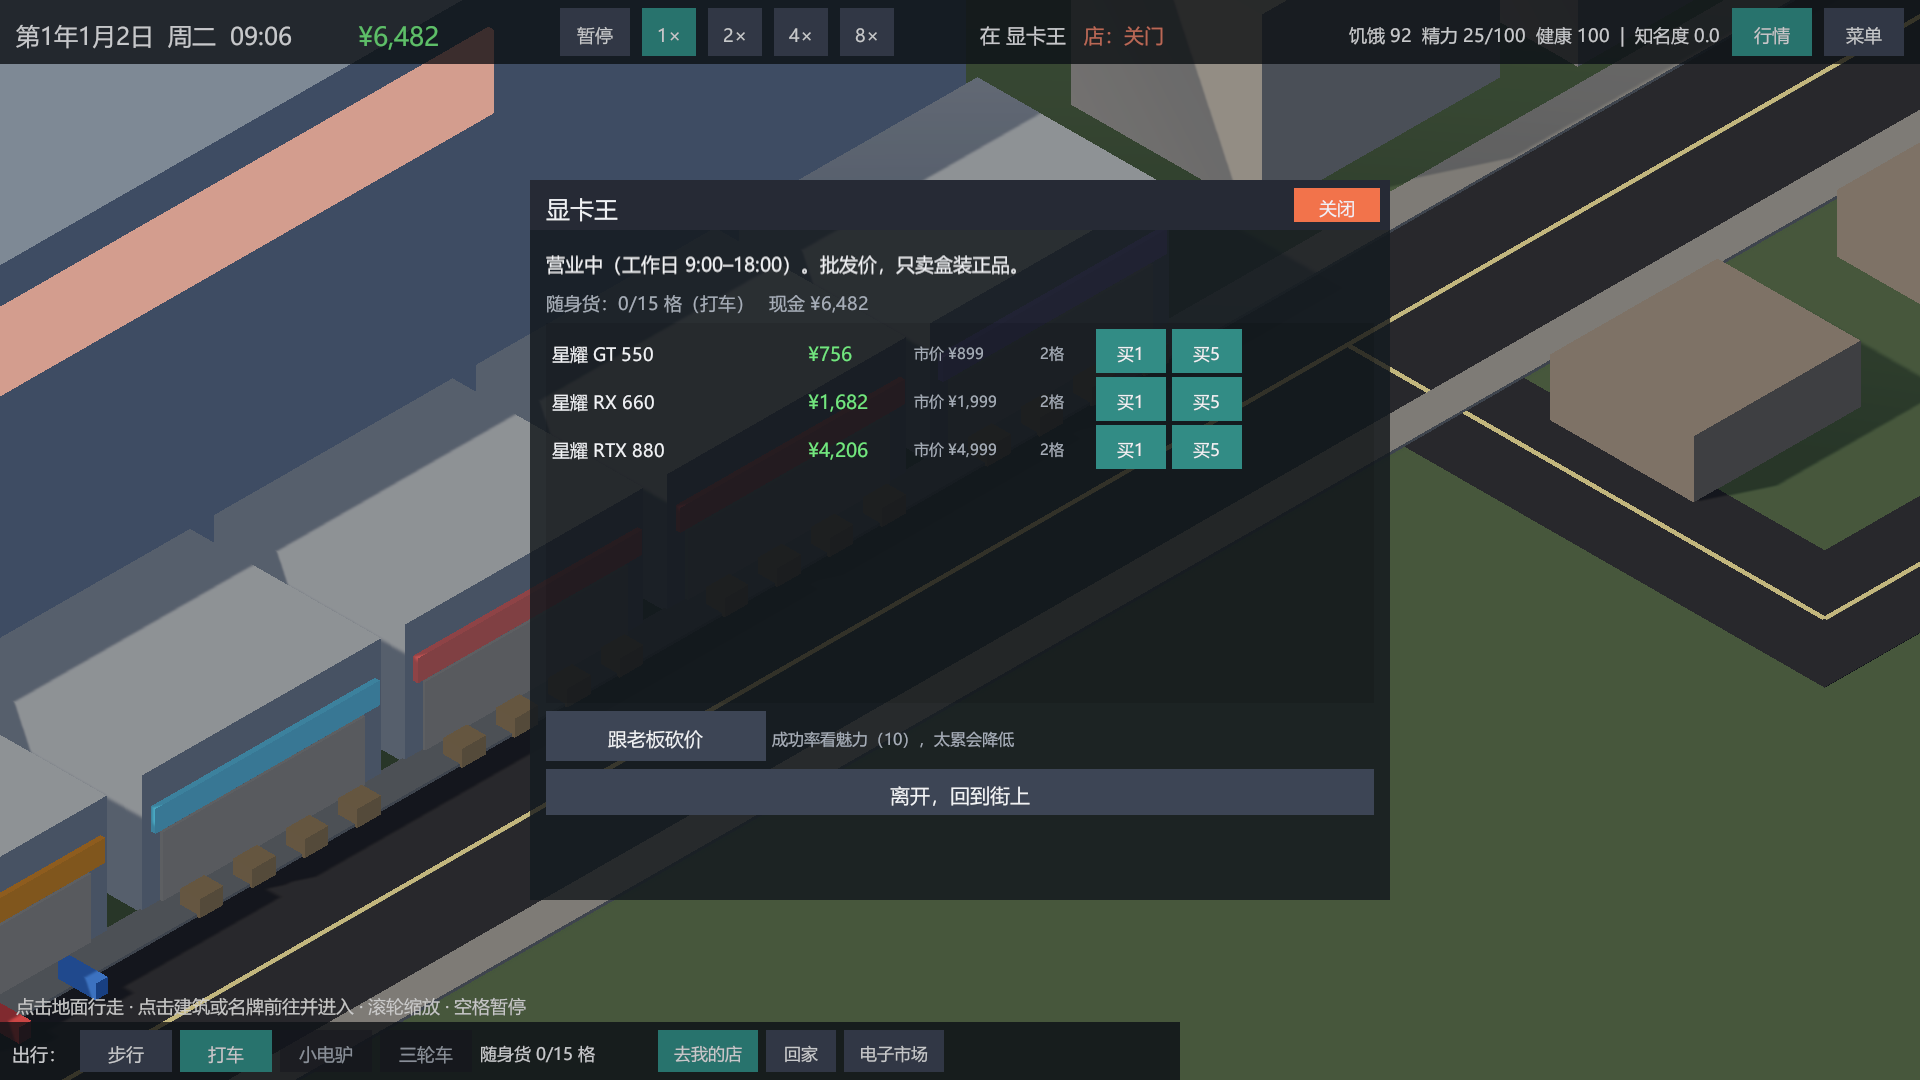
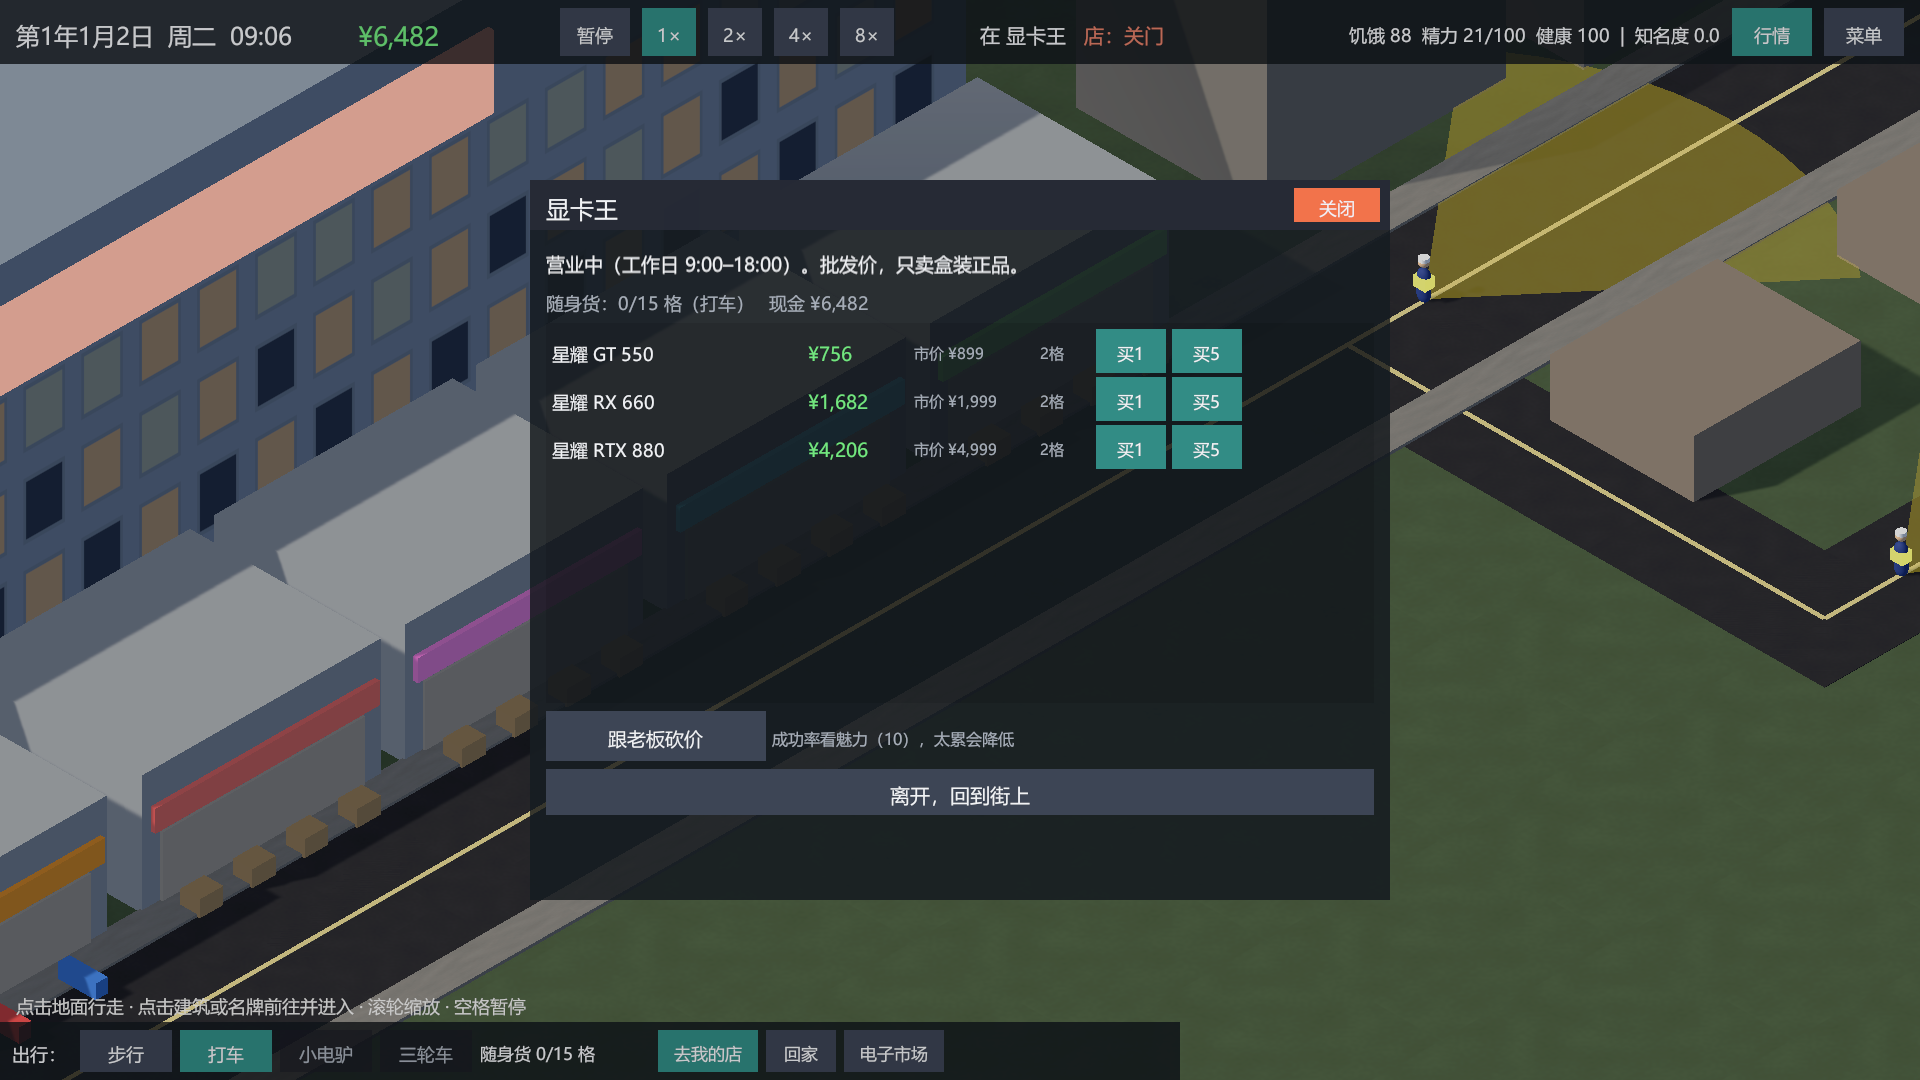
world: windows, roof clutter, textured ground, neon shop lights; PlayModeSmoke real play-mode test; docs

diff --git a/Assets/Scripts/Game/Runtime/StreetWorldBuilder.cs b/Assets/Scripts/Game/Runtime/StreetWorldBuilder.cs
@@ -53,6 +53,7 @@ namespace PCShopSell.Game.Runtime
         private readonly CityLayout _city;
         private readonly System.Random _rng;
         private Transform _root;
+        private int _shopNeonCount;
 
         public Dictionary<string, PlaceVisual> Places { get; } = new Dictionary<string, PlaceVisual>();
         public List<Light> NightLights { get; } = new List<Light>();
@@ -73,7 +74,7 @@ namespace PCShopSell.Game.Runtime
             Mats.ClearNightGlow();
             _root = new GameObject("City").transform;
 
-            var ground = Prims.Box(_root, "Ground", new Vector3(-60, -0.06f, -20), new Vector3(520, 0.1f, 220), Mats.Lit(Grass, 0.05f), true);
+            var ground = Prims.Box(_root, "Ground", new Vector3(-60, -0.06f, -20), new Vector3(520, 0.1f, 220), Mats.LitTex(Grass, new Vector2(70, 30), 0.05f), true);
             ground.AddComponent<GroundMarker>();
 
             BuildRoads();
@@ -102,7 +103,7 @@ namespace PCShopSell.Game.Runtime
                     float width = main ? 7f : 5f;
                     Vector3 d = b - a;
                     float len = d.magnitude + width;
-                    var go = Prims.Box(roads, "Road_" + key, (a + b) * 0.5f + Vector3.up * 0.005f, new Vector3(width, 0.02f, len), Mats.Lit(Asphalt, 0.45f));
+                    var go = Prims.Box(roads, "Road_" + key, (a + b) * 0.5f + Vector3.up * 0.005f, new Vector3(width, 0.02f, len), Mats.LitTex(Asphalt, new Vector2(Mathf.Max(1f, width / 5f), Mathf.Max(1f, len / 5f)), 0.5f));
                     go.transform.localRotation = Quaternion.LookRotation(d.normalized, Vector3.up);
 
                     if (len > 14f)
@@ -116,7 +117,7 @@ namespace PCShopSell.Game.Runtime
 
         private void BuildSidewalks()
         {
-            var sw = Mats.Lit(Sidewalk, 0.15f);
+            var sw = Mats.LitTex(Sidewalk, new Vector2(60, 1), 0.2f);
             Prims.Box(_root, "SidewalkNorth", new Vector3(-85, 0.06f, 3.9f), new Vector3(380, 0.12f, 1.4f), sw);
             Prims.Box(_root, "SidewalkSouth", new Vector3(-85, 0.06f, -4.2f), new Vector3(380, 0.12f, 1.4f), sw);
         }
@@ -176,14 +177,22 @@ namespace PCShopSell.Game.Runtime
             Prims.Box(root, "Sign", new Vector3(entrance.x, 3.2f, FrontZ - 0.15f), new Vector3(w - 0.4f, 0.8f, 0.2f),
                 Mats.Glow(sign * 0.8f, sign * 2.2f));
             Prims.Box(root, "Awning", new Vector3(entrance.x, 2.75f, FrontZ - 0.6f), new Vector3(w - 0.2f, 0.08f, 1.2f), Mats.Lit(sign * 0.6f));
-
-            for (int f = 1; f < floors; f++)
+            if (_shopNeonCount++ % 2 == 0)
             {
-                float y = f * 3.2f + 1.6f;
-                bool lit = _rng.NextDouble() < 0.6;
-                Prims.Box(root, "Windows" + f, new Vector3(entrance.x, y, FrontZ - 0.03f), new Vector3(w - 1.2f, 1.2f, 0.06f),
-                    lit ? Mats.Glow(new Color(0.3f, 0.36f, 0.45f), new Color(1.4f, 1.15f, 0.7f)) : Mats.Lit(new Color(0.25f, 0.32f, 0.42f), 0.8f));
+                var ngo = new GameObject("NeonLight");
+                ngo.transform.SetParent(root, false);
+                ngo.transform.localPosition = new Vector3(entrance.x, 2.6f, FrontZ - 2.2f);
+                var nl = ngo.AddComponent<Light>();
+                nl.type = LightType.Point;
+                nl.range = 9f;
+                nl.color = Color.Lerp(sign, Color.white, 0.15f);
+                nl.intensity = 0;
+                nl.shadows = LightShadows.None;
+                NightLights.Add(nl);
             }
+
+            if (floors > 1)
+                WindowFace(root, new Vector3(entrance.x, 3.2f + (h - 3.2f) / 2f, FrontZ - 0.03f), w - 0.4f, h - 3.2f, facade, false);
             Prims.Box(root, "Roof", new Vector3(entrance.x, h + 0.15f, cz), new Vector3(w + 0.2f, 0.3f, d + 0.2f), Mats.Lit(facade * 0.7f));
 
             if (p.IsPlayerShop)
@@ -210,7 +219,7 @@ namespace PCShopSell.Game.Runtime
             var body = Prims.Box(root, "Body", new Vector3(x, 3.2f, e.z), new Vector3(8, 6.4f, 8), Mats.Lit(new Color(0.70f, 0.62f, 0.52f), 0.05f), true);
             body.AddComponent<PlaceMarker>().PlaceId = p.Id;
             Prims.Box(root, "Door", new Vector3(x - 4.05f, 1.1f, e.z), new Vector3(0.1f, 2.2f, 1.2f), Mats.Lit(new Color(0.35f, 0.2f, 0.12f)));
-            Prims.Box(root, "Window", new Vector3(x - 4.04f, 4.4f, e.z + 1.5f), new Vector3(0.08f, 1.0f, 1.4f), Mats.Glow(new Color(0.3f, 0.3f, 0.35f), new Color(1.8f, 1.3f, 0.6f)));
+            WindowFace(root, new Vector3(x - 4.03f, 4.8f, e.z), 8f, 3.2f, new Color(0.70f, 0.62f, 0.52f), true);
             Prims.Box(root, "Laundry", new Vector3(x - 4.4f, 3.6f, e.z - 1.5f), new Vector3(0.05f, 0.05f, 3f), Mats.Lit(Color.gray));
             for (int i = 0; i < 3; i++)
                 Prims.Box(root, "Cloth" + i, new Vector3(x - 4.4f, 3.2f, e.z - 2.6f + i), new Vector3(0.04f, 0.7f, 0.6f), Mats.Lit(SignColors[i]));
@@ -250,14 +259,18 @@ namespace PCShopSell.Game.Runtime
 
             // 电子市场背后的大楼（作背景）
             var mall = Prims.Box(t, "MarketHall", new Vector3(-236, 8, 26), new Vector3(70, 16, 22), Mats.Lit(new Color(0.55f, 0.6f, 0.66f), 0.3f));
-            _ = mall;
+            WindowFace(t, new Vector3(-236, 6.5f, 14.97f), 68f, 10f, new Color(0.55f, 0.6f, 0.66f), false);
             Prims.Box(t, "MarketHallSign", new Vector3(-236, 13, 14.9f), new Vector3(30, 3, 0.3f), Mats.Glow(new Color(0.8f, 0.2f, 0.2f), new Color(3f, 0.5f, 0.4f), false));
 
             // 商业街背后的楼
             for (float x = -98; x < 100; x += 14f)
             {
                 float h = 14 + (float)_rng.NextDouble() * 12;
-                Prims.Box(t, "Back", new Vector3(x, h / 2, 30 + (float)_rng.NextDouble() * 4), new Vector3(13, h, 8), Mats.Lit(Facades[_rng.Next(Facades.Length)] * 0.8f));
+                float zc = 30 + (float)_rng.NextDouble() * 4;
+                Color wall = Facades[_rng.Next(Facades.Length)] * 0.8f;
+                Prims.Box(t, "Back", new Vector3(x, h / 2, zc), new Vector3(13, h, 8), Mats.Lit(wall));
+                WindowFace(t, new Vector3(x, h / 2, zc - 4.03f), 12.6f, h - 0.5f, wall, false);
+                RoofClutter(t, new Vector3(x, h, zc), 13, 8);
             }
 
             // 连接路两侧：北侧仓库（可以高），中间和南侧矮房
@@ -277,18 +290,62 @@ namespace PCShopSell.Game.Runtime
                 {
                     float x = 111 + k * 7;
                     float h = 3 + (float)_rng.NextDouble() * 3.5f;
-                    Prims.Box(t, "Village", new Vector3(x, h / 2, z - 0.5f), new Vector3(5.5f, h, 7.5f), Mats.Lit(VillageColor()));
+                    VillageHouse(t, new Vector3(x, h / 2, z - 0.5f), h);
                 }
                 for (int k = 0; k < 3; k++)
                 {
                     float x = 131 + k * 7;
                     if (row == 4) continue;
                     float h = 3 + (float)_rng.NextDouble() * 4;
-                    Prims.Box(t, "Village", new Vector3(x, h / 2, z - 0.5f), new Vector3(5.5f, h, 7.5f), Mats.Lit(VillageColor()));
+                    VillageHouse(t, new Vector3(x, h / 2, z - 0.5f), h);
                 }
             }
             for (int k = 0; k < 5; k++)
                 Prims.Box(t, "VillageSouth", new Vector3(108 + k * 9, 1.5f, -72), new Vector3(7, 3, 6), Mats.Lit(VillageColor()));
+        }
+
+        /// <summary>在一面朝 -Z（或 -X）的墙上铺一层窗户贴图（镜头只看得到这两个方向）。</summary>
+        private void WindowFace(Transform parent, Vector3 center, float width, float height, Color wall, bool faceMinusX)
+        {
+            int cols = Mathf.Max(1, Mathf.RoundToInt(width / 2.4f));
+            int rows = Mathf.Max(1, Mathf.RoundToInt(height / 3.2f));
+            var q = GameObject.CreatePrimitive(PrimitiveType.Quad);
+            q.name = "Windows";
+            Object.DestroyImmediate(q.GetComponent<Collider>());
+            q.transform.SetParent(parent, false);
+            q.transform.localPosition = center;
+            q.transform.localRotation = faceMinusX ? Quaternion.Euler(0, 90, 0) : Quaternion.identity;
+            q.transform.localScale = new Vector3(width, height, 1f);
+            q.GetComponent<Renderer>().sharedMaterial = Mats.WindowWall(wall, cols, rows, _rng.Next(16));
+        }
+
+        private void VillageHouse(Transform parent, Vector3 center, float h)
+        {
+            Color wall = VillageColor();
+            Prims.Box(parent, "Village", center, new Vector3(5.5f, h, 7.5f), Mats.Lit(wall));
+            WindowFace(parent, new Vector3(center.x, center.y, center.z - 3.78f), 5.2f, h - 0.4f, wall, false);
+            WindowFace(parent, new Vector3(center.x - 2.78f, center.y, center.z), 7.0f, h - 0.4f, wall, true);
+            RoofClutter(parent, new Vector3(center.x, h, center.z), 5.5f, 7.5f);
+        }
+
+        /// <summary>屋顶上的空调外机、水箱，让天际线不再是一块平板。</summary>
+        private void RoofClutter(Transform parent, Vector3 roofCenter, float w, float d)
+        {
+            Material metal = Mats.Lit(new Color(0.62f, 0.64f, 0.66f), 0.4f, 0.4f);
+            int n = 1 + _rng.Next(3);
+            for (int i = 0; i < n; i++)
+            {
+                float x = roofCenter.x + ((float)_rng.NextDouble() - 0.5f) * (w - 2f);
+                float z = roofCenter.z + ((float)_rng.NextDouble() - 0.5f) * (d - 2f);
+                if (_rng.NextDouble() < 0.35)
+                {
+                    Prims.Shape(PrimitiveType.Cylinder, parent, "Tank", new Vector3(x, roofCenter.y + 0.9f, z), new Vector3(1.1f, 0.9f, 1.1f), Mats.Lit(new Color(0.55f, 0.5f, 0.45f)));
+                }
+                else
+                {
+                    Prims.Box(parent, "AC", new Vector3(x, roofCenter.y + 0.4f, z), new Vector3(1.2f, 0.8f, 0.9f), metal);
+                }
+            }
         }
 
         private Color VillageColor()

diff --git a/Assets/Scripts/Game/Runtime/Mats.cs b/Assets/Scripts/Game/Runtime/Mats.cs
@@ -72,6 +72,107 @@ namespace PCShopSell.Game.Runtime
         }
 
         public static void ClearNightGlow() => NightGlow.Clear();
+
+        // ---------- 贴图材质（地面质感、带窗户的墙面） ----------
+
+        private static Texture2D _noise;
+        private static Texture2D _windowAlbedo;
+        private static Texture2D _windowEmission;
+
+        /// <summary>灰度噪点贴图（0.78~1），乘在底色上让大面积的地面不再是一整块平色。</summary>
+        public static Texture2D NoiseTex
+        {
+            get
+            {
+                if (_noise != null) return _noise;
+                const int n = 128;
+                var t = new Texture2D(n, n, TextureFormat.RGBA32, true, true) { name = "Noise", wrapMode = TextureWrapMode.Repeat };
+                var px = new Color32[n * n];
+                for (int y = 0; y < n; y++)
+                    for (int x = 0; x < n; x++)
+                    {
+                        float low = Mathf.PerlinNoise(x * 0.05f + 11f, y * 0.05f + 3f);
+                        float fine = Mathf.PerlinNoise(x * 0.35f, y * 0.35f);
+                        float v = Mathf.Clamp01(0.78f + 0.14f * low + 0.08f * fine);
+                        byte b = (byte)(v * 255f);
+                        px[y * n + x] = new Color32(b, b, b, 255);
+                    }
+                t.SetPixels32(px);
+                t.Apply(true);
+                return _noise = t;
+            }
+        }
+
+        /// <summary>带噪点贴图的地面材质。</summary>
+        public static Material LitTex(Color c, Vector2 tiling, float smoothness = 0.2f)
+        {
+            string key = $"T{c}{tiling}{smoothness}";
+            if (Cache.TryGetValue(key, out Material m) && m != null) return m;
+            m = new Material(LitShader) { name = key };
+            m.SetColor("_BaseColor", c);
+            m.color = c;
+            m.SetFloat("_Smoothness", smoothness);
+            m.SetTexture("_BaseMap", NoiseTex);
+            m.mainTexture = NoiseTex;
+            m.mainTextureScale = tiling;
+            Cache[key] = m;
+            return m;
+        }
+
+        private static void BuildWindowTextures()
+        {
+            if (_windowAlbedo != null) return;
+            const int cell = 64, cells = 4, n = cell * cells;
+            var rng = new System.Random(4242);
+            _windowAlbedo = new Texture2D(n, n, TextureFormat.RGBA32, true, true) { name = "WindowAlbedo", wrapMode = TextureWrapMode.Repeat };
+            _windowEmission = new Texture2D(n, n, TextureFormat.RGBA32, true, true) { name = "WindowEmission", wrapMode = TextureWrapMode.Repeat };
+            var a = new Color32[n * n];
+            var e = new Color32[n * n];
+            for (int cy = 0; cy < cells; cy++)
+                for (int cx = 0; cx < cells; cx++)
+                {
+                    bool lit = rng.NextDouble() < 0.55;
+                    var warm = rng.NextDouble() < 0.8 ? new Color32(255, 214, 140, 255) : new Color32(150, 215, 255, 255);
+                    for (int y = 0; y < cell; y++)
+                        for (int x = 0; x < cell; x++)
+                        {
+                            int px = cx * cell + x, py = cy * cell + y;
+                            bool pane = x >= 12 && x < cell - 12 && y >= 14 && y < cell - 10;
+                            bool frame = !pane && x >= 9 && x < cell - 9 && y >= 11 && y < cell - 7;
+                            Color32 albedo = pane ? new Color32(36, 46, 62, 255) : frame ? new Color32(215, 215, 215, 255) : new Color32(255, 255, 255, 255);
+                            a[py * n + px] = albedo;
+                            e[py * n + px] = pane && lit ? warm : new Color32(0, 0, 0, 255);
+                        }
+                }
+            _windowAlbedo.SetPixels32(a);
+            _windowAlbedo.Apply(true);
+            _windowEmission.SetPixels32(e);
+            _windowEmission.Apply(true);
+        }
+
+        /// <summary>
+        /// 带窗户的墙面材质：每栋楼单独一个材质，用贴图偏移让亮灯的窗户各不相同。
+        /// columns/rows 是这面墙上窗户的列数/行数；夜里窗户按 NightGlow 亮起。
+        /// </summary>
+        public static Material WindowWall(Color wall, int columns, int rows, int seed)
+        {
+            BuildWindowTextures();
+            var m = new Material(LitShader) { name = "WindowWall" };
+            m.SetColor("_BaseColor", wall);
+            m.color = wall;
+            m.SetFloat("_Smoothness", 0.35f);
+            m.SetTexture("_BaseMap", _windowAlbedo);
+            m.mainTexture = _windowAlbedo;
+            m.mainTextureScale = new Vector2(Mathf.Max(1, columns) / 4f, Mathf.Max(1, rows) / 4f);
+            m.mainTextureOffset = new Vector2((seed % 4) / 4f, ((seed / 4) % 4) / 4f);
+            m.EnableKeyword("_EMISSION");
+            m.globalIlluminationFlags = MaterialGlobalIlluminationFlags.None;
+            m.SetTexture("_EmissionMap", _windowEmission);
+            Color baseEmission = new Color(2.2f, 1.9f, 1.4f);
+            m.SetColor("_EmissionColor", baseEmission * 0.08f);
+            NightGlow.Add((m, baseEmission));
+            return m;
+        }
     }
 
     public static class Prims

diff --git a/Assets/Editor/PlayModeSmoke.cs b/Assets/Editor/PlayModeSmoke.cs
@@ -1,0 +1,110 @@
+using System;
+using System.IO;
+using PCShopSell.Game;
+using UnityEditor;
+using UnityEditor.SceneManagement;
+using UnityEngine;
+
+namespace PCShopSell.EditorTools
+{
+    /// <summary>
+    /// 真正进 Play 模式跑 Main.unity：走你验收时会走的路径（Start → Bootstrap → Update 循环 → 进店 → 加速）。
+    /// 命令：Unity -batchmode -executeMethod PCShopSell.EditorTools.PlayModeSmoke.RunFromBatch（不能带 -nographics）。
+    /// 进 Play 会重载域，所以用 SessionState 保存状态、用 InitializeOnLoad 重新挂回调。
+    /// </summary>
+    [InitializeOnLoad]
+    public static class PlayModeSmoke
+    {
+        private const string ActiveKey = "PCShopSell.PlaySmoke.Active";
+        private const string ErrorsKey = "PCShopSell.PlaySmoke.Errors";
+        private const string StartKey = "PCShopSell.PlaySmoke.Start";
+
+        private static double _t0;
+        private static int _frame;
+        private static bool _enteredShop;
+        private static int _shots;
+
+        static PlayModeSmoke()
+        {
+            if (!SessionState.GetBool(ActiveKey, false)) return;
+            Application.logMessageReceived += OnLog;
+            EditorApplication.update += Tick;
+        }
+
+        public static void RunFromBatch()
+        {
+            EditorSceneManager.OpenScene(GameSceneBuilder.ScenePath, OpenSceneMode.Single);
+            SessionState.SetBool(ActiveKey, true);
+            SessionState.SetInt(ErrorsKey, 0);
+            SessionState.SetFloat(StartKey, 0);
+            EditorApplication.EnterPlaymode();
+        }
+
+        private static void OnLog(string msg, string stack, LogType type)
+        {
+            if (type == LogType.Error || type == LogType.Exception || type == LogType.Assert)
+            {
+                SessionState.SetInt(ErrorsKey, SessionState.GetInt(ErrorsKey, 0) + 1);
+                Debug.Log("PLAYSMOKE error: " + msg);
+            }
+        }
+
+        private static void Finish(int code)
+        {
+            Debug.Log($"PLAYSMOKE RESULT code={code} errors={SessionState.GetInt(ErrorsKey, 0)} frames={_frame}");
+            SessionState.SetBool(ActiveKey, false);
+            EditorApplication.Exit(code);
+        }
+
+        private static void Tick()
+        {
+            if (!EditorApplication.isPlaying) return;
+            if (_t0 == 0) _t0 = EditorApplication.timeSinceStartup;
+            _frame++;
+            double elapsed = EditorApplication.timeSinceStartup - _t0;
+
+            var game = UnityEngine.Object.FindObjectOfType<GameController>();
+            if (game == null)
+            {
+                if (elapsed > 5) { Debug.LogError("PLAYSMOKE: no GameController in scene"); Finish(1); }
+                return;
+            }
+            if (game.Session == null || game.Ui == null) return;
+
+            try
+            {
+                if (!_enteredShop && elapsed > 3)
+                {
+                    _enteredShop = true;
+                    game.Ui.CloseAllWindows();
+                    Debug.Log("PLAYSMOKE: boot ok, places=" + game.City.Places.Count + ", walking to shop");
+                    Capture("play_01_start");
+                    game.Session.Time.SetSpeed(8);
+                    game.GoToPlace(game.City.PlayerShop());
+                }
+                if (_enteredShop && _shots == 1 && game.InInterior)
+                {
+                    Capture("play_02_in_shop");
+                }
+                if (elapsed > 40 || (_enteredShop && game.InInterior && elapsed > 25))
+                {
+                    Debug.Log($"PLAYSMOKE: day={game.Session.Clock.Now.Date.TotalDays} minute={game.Session.Clock.MinuteOfDay} inShop={game.InInterior} cash={game.Session.Ledger.Balance}");
+                    Finish(SessionState.GetInt(ErrorsKey, 0) > 0 ? 1 : 0);
+                }
+            }
+            catch (Exception e)
+            {
+                Debug.LogException(e);
+                Finish(1);
+            }
+        }
+
+        private static void Capture(string name)
+        {
+            string dir = Path.GetFullPath(Path.Combine(Application.dataPath, "../docs/previews"));
+            Directory.CreateDirectory(dir);
+            ScreenCapture.CaptureScreenshot(Path.Combine(dir, name + ".png"));
+            _shots++;
+        }
+    }
+}
